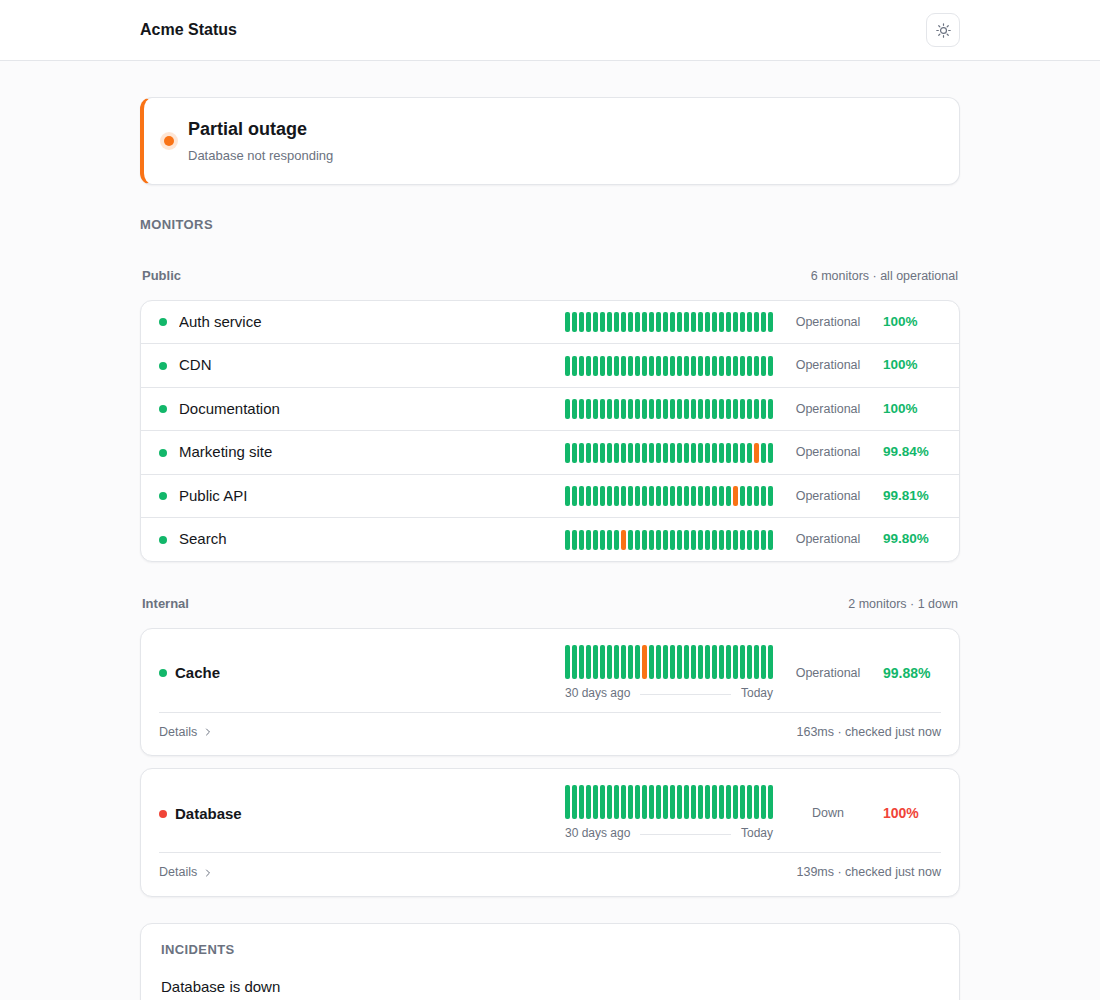
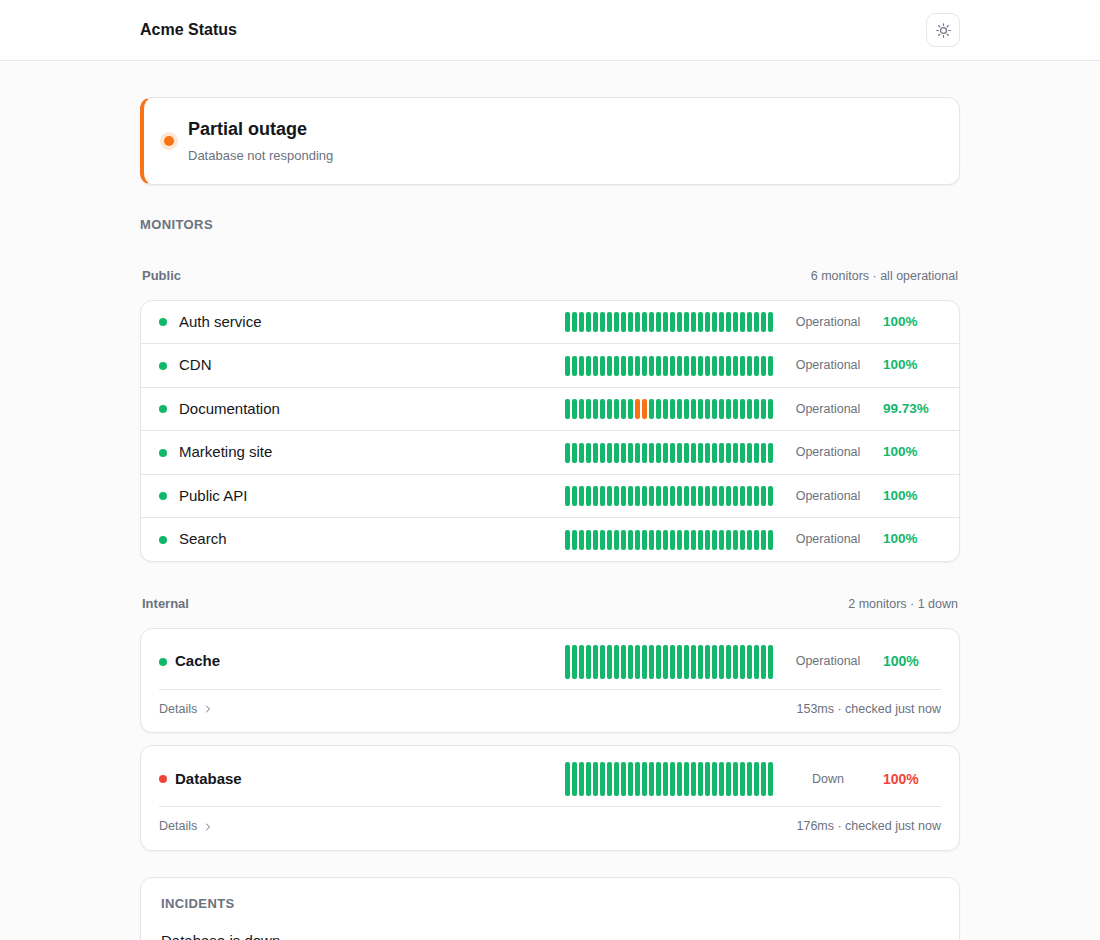
style: drop the day labels under a card's strip
The card is a single row now, so the scale sat under the strip repeating what
the page already says. The strip itself carries the sizing that the wrapper
held, which leaves the card two rows instead of three. The detail view keeps
its labels.

diff --git a/site/app.js b/site/app.js
@@ -484,20 +484,16 @@ function renderCard(monitor) {
   left.append(name);
   if (monitor.description) left.append(el('p', 'card-desc', monitor.description));
 
-  const strip = el('div', 'strip-block');
   const bars = el('div', 'bars');
-  const scale = el('div', 'scale');
-  scale.append(el('span', null, `${RANGE_DAYS} days ago`), el('span'), el('span', null, 'Today'));
-  strip.append(bars, scale);
 
   // Status and figure sit beside the strip exactly as they do in a compact
   // row, which is what lines the two strips up with each other.
   const status = el('span', 'card-sub', STATUS_TEXT[monitor.status] || monitor.status);
   const uptime = el('span', 'card-uptime', formatUptime(monitor.uptime.month));
 
-  head.append(left, strip, status, uptime);
+  head.append(left, bars, status, uptime);
   card.append(head);
-  registerStrip(bars, monitor, 2, strip);
+  registerStrip(bars, monitor, 2, bars);
 
   const footer = el('div', 'card-footer');
   const more = el('span', 'card-more');

diff --git a/site/style.css b/site/style.css
@@ -378,19 +378,15 @@ main.shell {
 
 /* Takes the leftover width while it is measured, then holds the width it
    painted, with the auto margin keeping it against the figure on the right. */
-.card .strip-block {
+.card .bars {
   flex: 1 1 auto;
   min-width: 0;
-  margin-left: auto;
+  margin: 0 0 0 auto;
 }
 
-.card .strip-block.is-sized {
+.card .bars.is-sized {
   flex: 0 0 auto;
   width: var(--strip-width);
-}
-
-.card .bars {
-  margin: 0 0 5px;
 }
 
 .card-name {
@@ -652,8 +648,8 @@ main.shell {
     flex-wrap: wrap;
     gap: 10px 16px;
   }
-  .card .strip-block,
-  .card .strip-block.is-sized {
+  .card .bars,
+  .card .bars.is-sized {
     order: 3;
     flex: 1 0 100%;
     width: auto;
